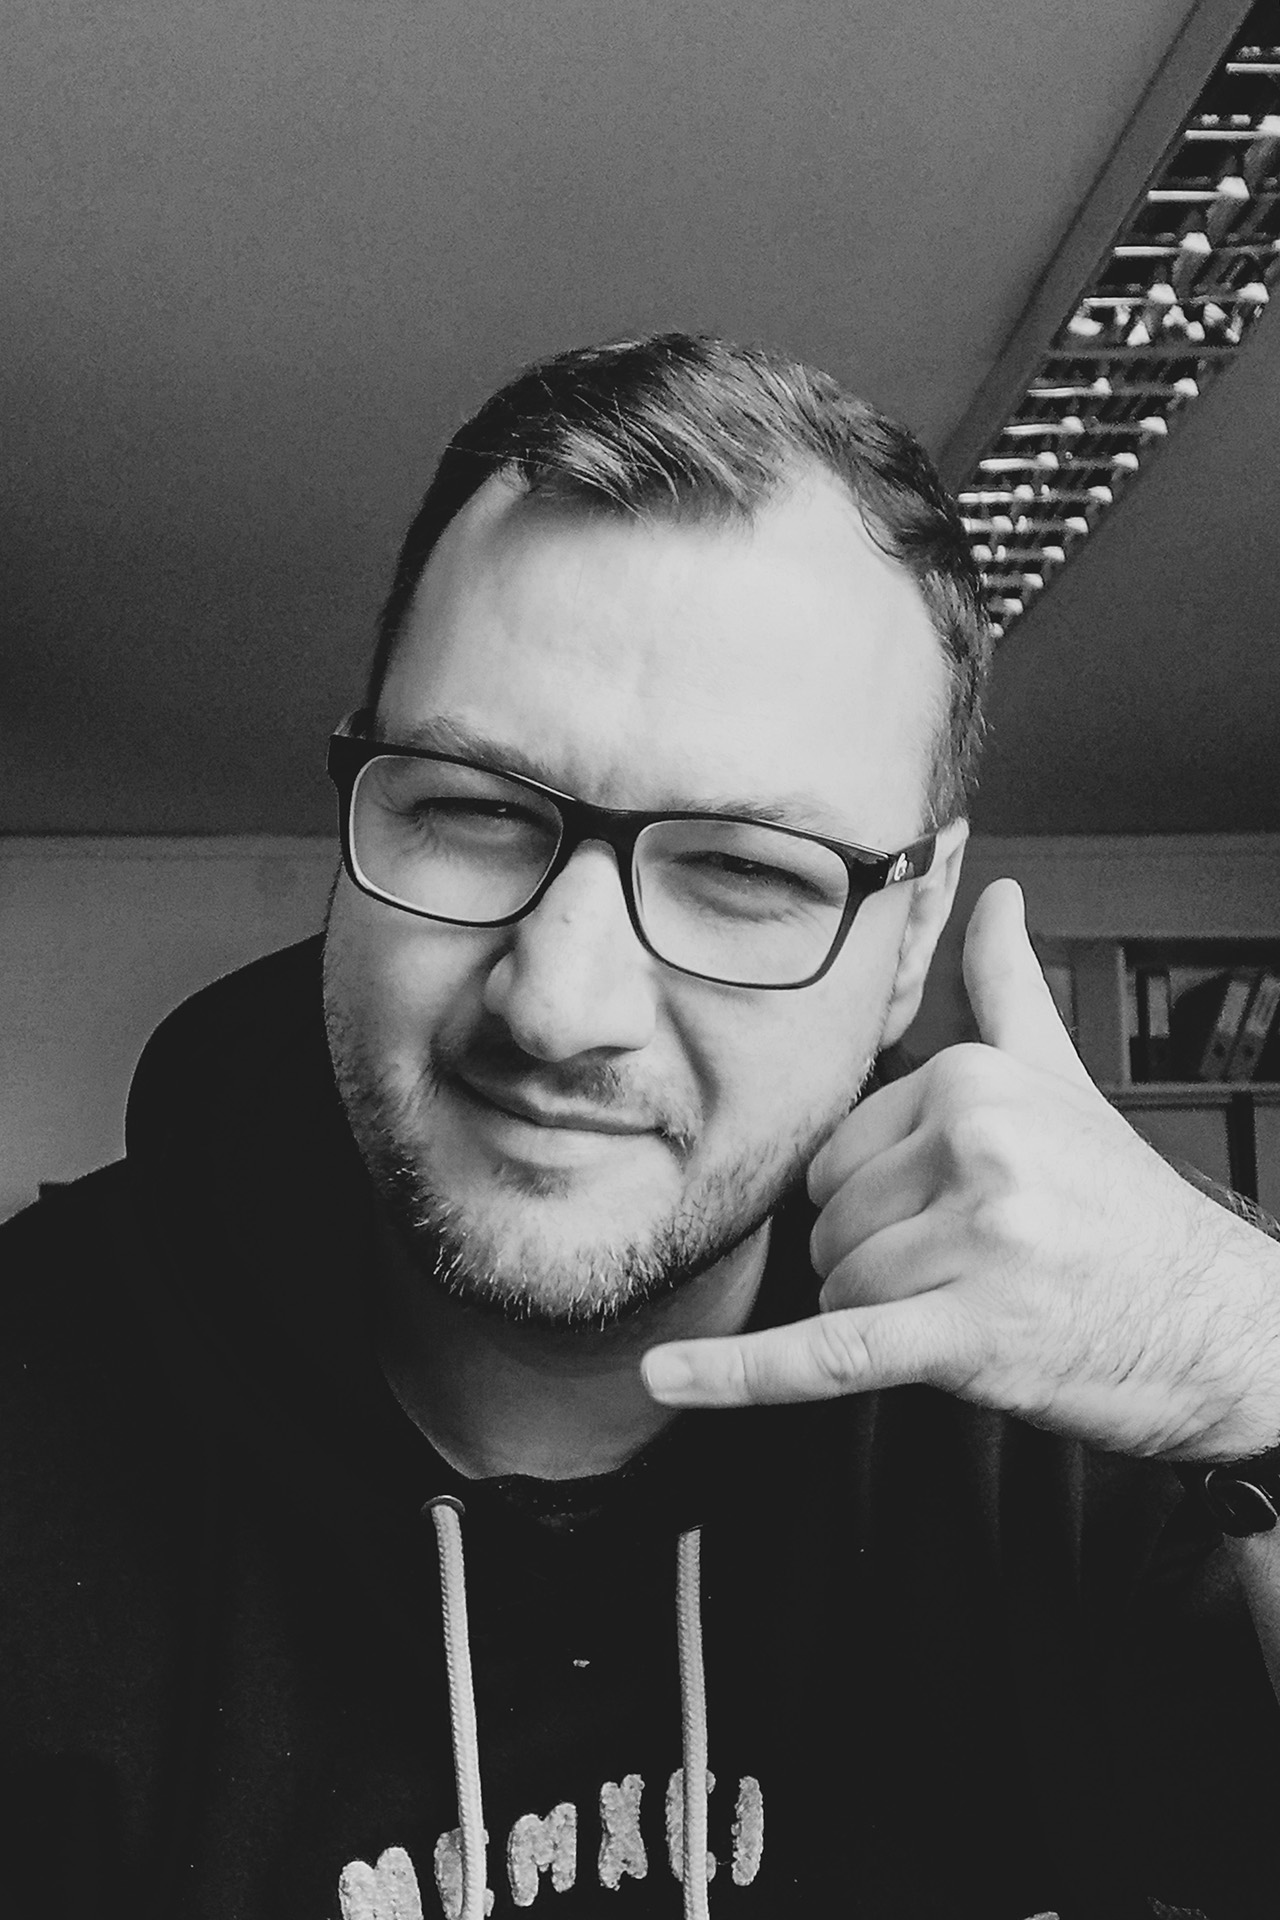
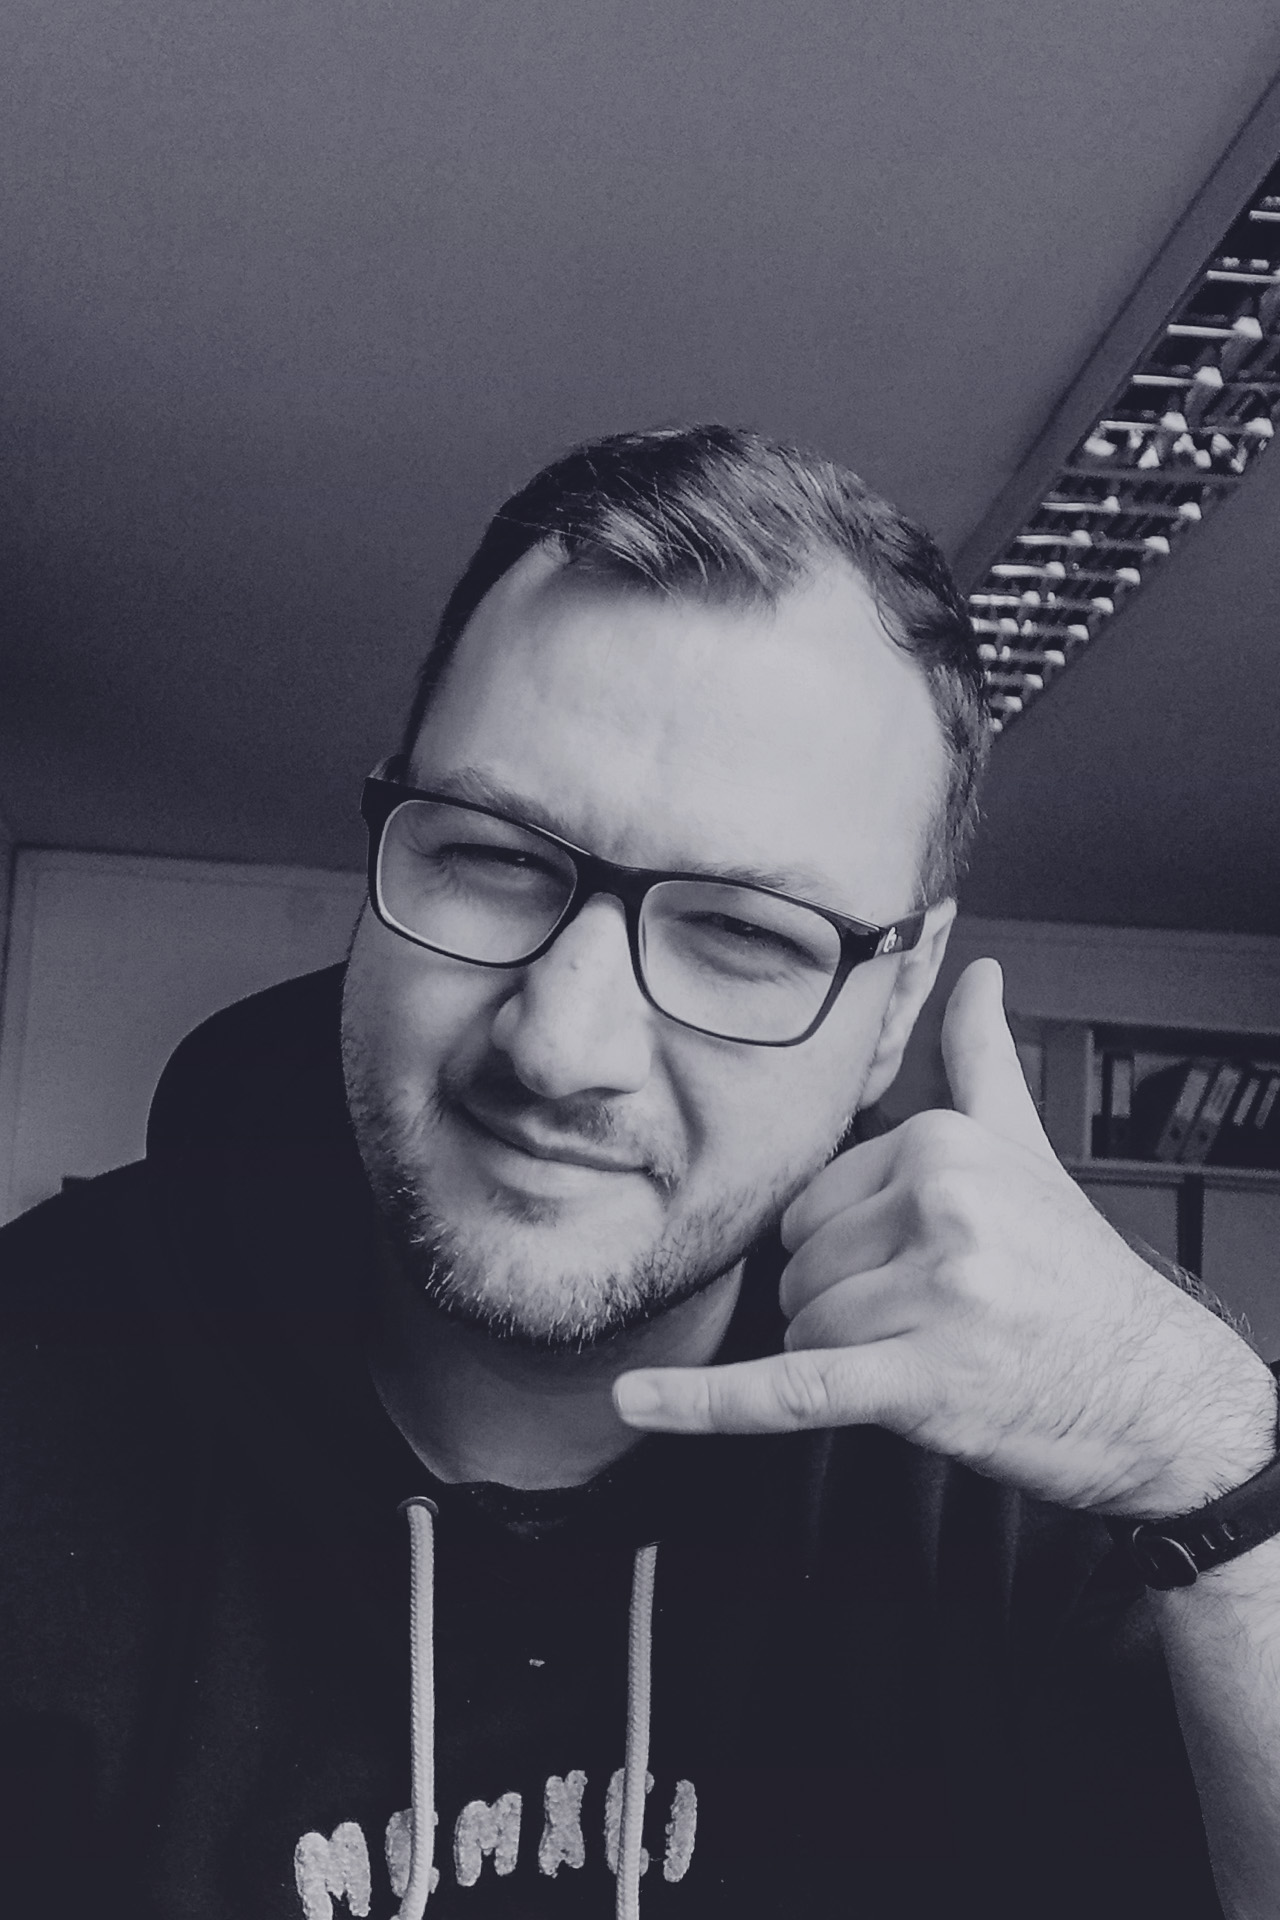
updated Header & Contact images

diff --git a/src/components/Header/Header.jsx b/src/components/Header/Header.jsx
@@ -20,35 +20,33 @@ const Header = () => {
         <Image
           alt="Me"
           animate={{
+            x: [1000, 0],
+            rotate: [180, 0],
             opacity: [0, 0.8],
-            scale: [6, 0.9, 1.1, 1],
+            // scale: [6, 0.9, 1.1, 1],
           }}
-          transition={transition}
+          transition={{ delay: 0.2, ...transition }}
         />
         <TitleWrapper>
           <Title
             animate={{ x: [-100, 0], opacity: [0, 1] }}
-            transition={{ delay: 0.2, ...transition }}
-          >
+            transition={{ delay: 0.2, ...transition }}>
             Hi,
           </Title>
           <Title
             animate={{ x: [-150, 0], opacity: [0, 1] }}
-            transition={{ delay: 0.3, ...transition }}
-          >
+            transition={{ delay: 0.3, ...transition }}>
             I'm Łukasz.
           </Title>
           <SubtitleWrapper>
             <Subtitle
               animate={{ x: [-100, 0], opacity: [0, 1] }}
-              transition={{ delay: 1, ...transition }}
-            >
+              transition={{ delay: 1, ...transition }}>
               FRONT-END DEVELOPER
             </Subtitle>
             <Subtitle
               animate={{ x: [-150, 0], opacity: [0, 1] }}
-              transition={{ delay: 1.1, ...transition }}
-            >
+              transition={{ delay: 1.1, ...transition }}>
               & GRAPHIC DESIGNER
             </Subtitle>
           </SubtitleWrapper>
@@ -60,8 +58,7 @@ const Header = () => {
         spy={true}
         smooth={true}
         offset={-100}
-        duration={800}
-      >
+        duration={800}>
         <Arrow
           animate={{ y: [-50, 0], opacity: [0, 1] }}
           transition={{ delay: 1.5, ...transition }}

diff --git a/src/components/Header/StyledHeader.js b/src/components/Header/StyledHeader.js
@@ -5,8 +5,8 @@ import { breakpoint, images } from "../../utils";
 
 export const Container = styled.header`
   position: relative;
-  min-height: 100vh;
   width: 100%;
+  min-height: 100vh;
   padding: 2rem;
   display: flex;
   justify-content: center;
@@ -15,25 +15,28 @@ export const Container = styled.header`
 `;
 
 export const Wrapper = styled.div`
+  display: flex;
+  flex-direction: column;
+  justify-content: center;
+  align-items: center;
+
   @media ${breakpoint.tablet} {
-    display: flex;
-    justify-content: center;
     flex-direction: row-reverse;
   }
 `;
 
 export const TitleWrapper = styled.div`
-  padding-top: 6rem;
+  // padding-top: 6rem;
 
   @media ${breakpoint.tablet} {
-    padding-top: 4rem;
+    // padding-top: 4rem;
   }
 `;
 
 export const Image = styled(motion.img).attrs({
   src: `${images.me}`,
 })`
-  width: 20%;
+  width: 50%;
   height: 100%;
   position: relative;
   rotate: 9deg;
@@ -51,9 +54,6 @@ export const Title = styled(motion.h1)`
   position: relative;
   font-size: 3rem;
   line-height: 1;
-  // background-image: linear-gradient(to right, #6a11cb 0%, #2575fc 100%);
-  // -webkit-background-clip: text;
-  // -webkit-text-fill-color: transparent;
   color: #2575fc;
 
   &:last-of-type {

diff --git a/src/components/Contact/StyledContact.js b/src/components/Contact/StyledContact.js
@@ -49,12 +49,14 @@ export const TextWrapper = styled.div``;
 export const Title = styled.h2`
   position: relative;
   font-size: 2.5rem;
-  background-image: linear-gradient(to right, #6a11cb 0%, #2575fc 100%);
-  -webkit-background-clip: text;
-  -webkit-text-fill-color: transparent;
+  color: #2575fc;
 
   @media ${breakpoint.tablet} {
     font-size: 4rem;
+  }
+
+  @media ${breakpoint.desktop} {
+    font-size: 5rem;
   }
 `;
 
